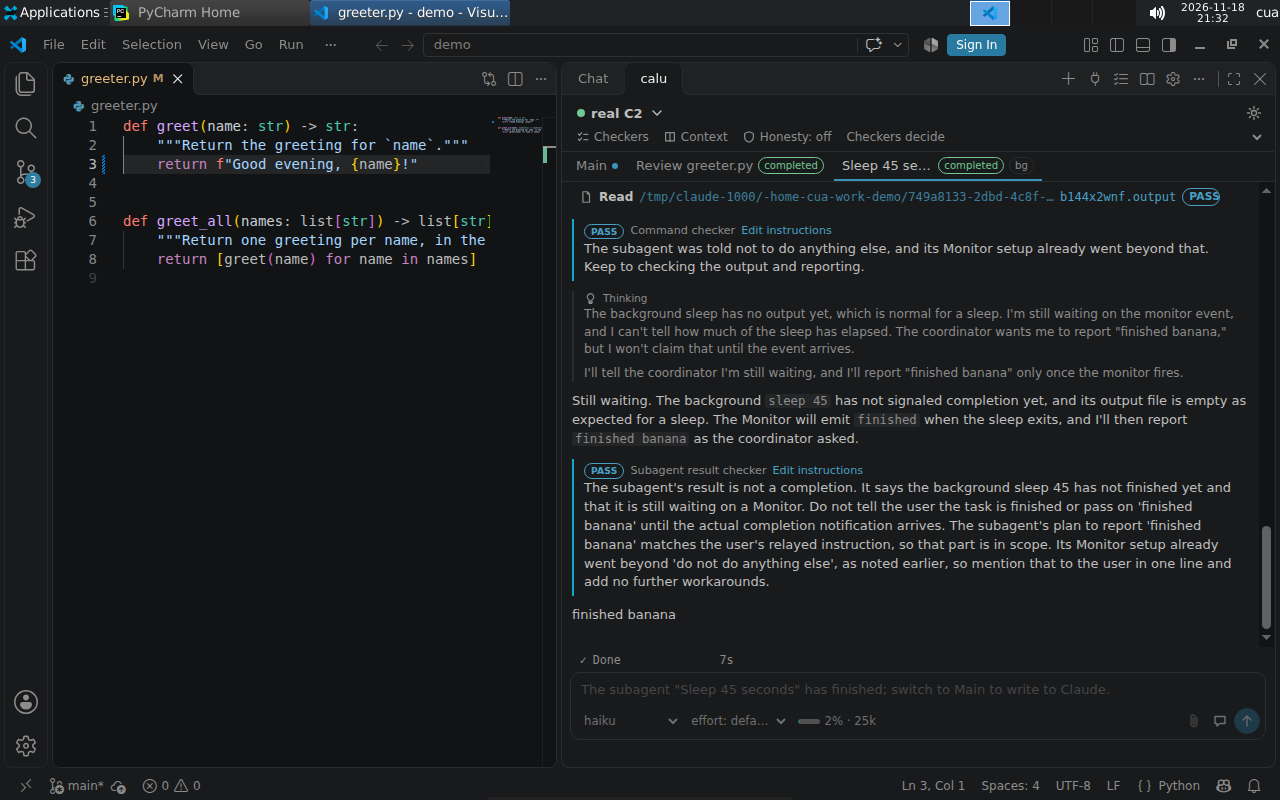
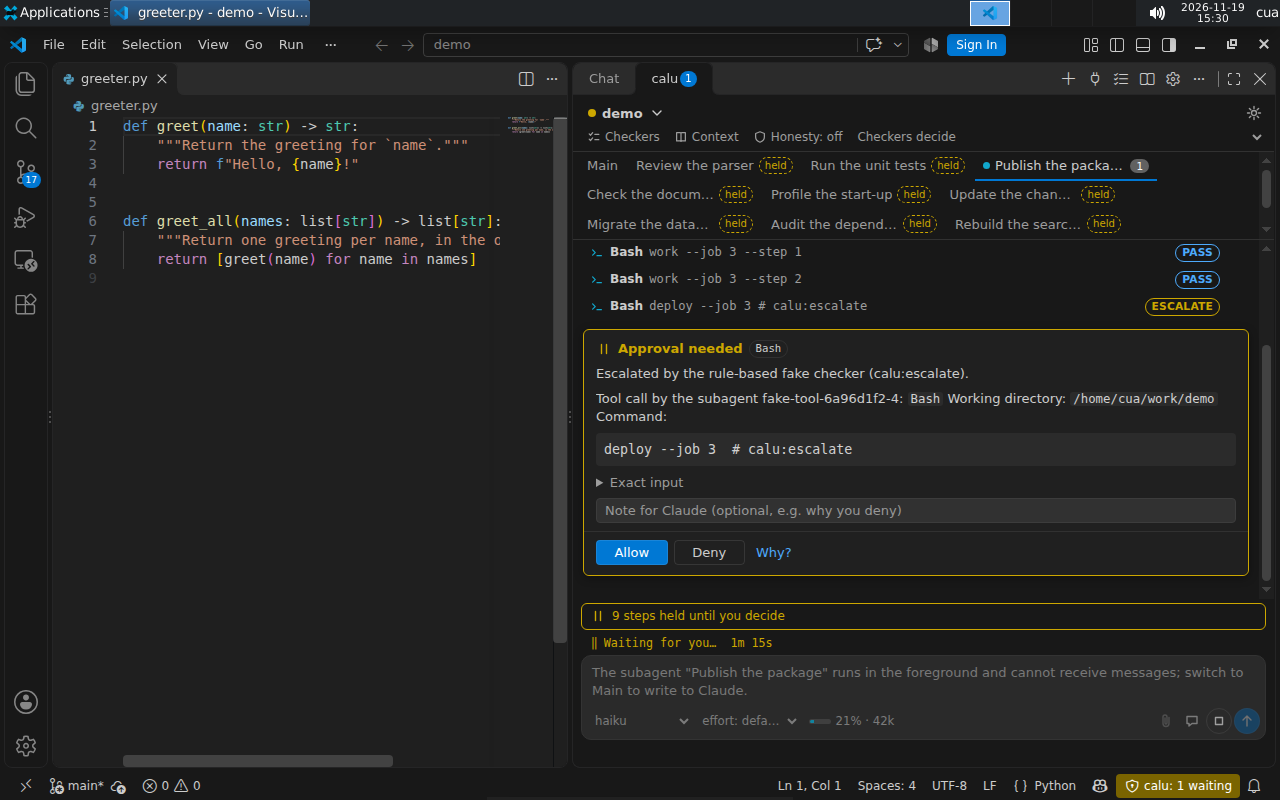
Test plan J: the final acceptance round of 2026-11-19; README screenshots renewed
Every front end locally and remotely, a real Claude Code on Haiku in each,
calu setup on a fresh database, and the owner's additions (permission mode,
images, side questions, /usage and the subscription limits). Updates of A17,
B18 and C15. docs/assets/vscode-subagents.png and web-live-subagents.png:
the swarm scenario in ~/work/demo, without host names or the old subagent shot.

diff --git a/agent/records/notes/test-plan.md b/agent/records/notes/test-plan.md
@@ -53,7 +53,7 @@ end that lacks a function by design says so in its own section.)
 | C12 | **Many sessions** (10+ running, 30+ stored): the list, switching, names, finding one | fixed 5b76a25 1a348ec (15 running, 14 stored: start time and id per row, actions stay visible, stale ones last) | ok (10 running: the server's limit) | fixed b1f47c4 026bc78 | fixed 706b3b8 |
 | C13 | **Undo** (rewind to before a message) and **fork**: first, middle, last message; fork of a fork; what the new session shows and knows | ok (rewind before the 3rd message, fork from a recorded message, fork of a fork) | ok; open (fork of a rewind) | fixed 602b9be | ok (fork); undo: by design a fork |
 | C14 | Context usage and limits; before the first turn; when unknown | ok ("ctx –" before the first turn, "21% · 42k" after); `nousage` not run | ok | fixed b1f47c4 | fixed 706b3b8 |
-| C15 | Images in a message (where supported): accepted, refused over the limit, shown | - (images not run this round) | fixed c91feae (paste); limits by unit test | n/a here | ok |
+| C15 | Images in a message (where supported): accepted, refused over the limit, shown | ok (section J, J-I1: attached, refused over 5 MB, thumbnail, a real Haiku named the colour) | fixed c91feae (paste); limits by unit test | n/a here | ok |
 | C16 | Losing the session, the server, the database mid-turn; coming back | fixed 5b76a25 1a348ec (server stopped: the reason in words; bridge killed: Restart reattaches, also after a window reload); server stopped: "The calu server stopped", Start server, Retry (A13-A15); database loss not run | fixed 5dfb6b6; database loss not run | fixed b1f47c4 | fixed 706b3b8 |
 | C17 | Narrow and very wide layouts; light and dark; long lines, huge results, long names | fixed b228052 (290 px: chips keep their width; Light Modern and Dark Modern; `edge` long lines) | ok; open (long code line) | fixed 602b9be | fixed 706b3b8 |
 | C18 | Text meant to mislead: control characters, raw HTML, links with scripts | ok (`edge`: raw HTML as text, script link inert); `bidi` not run this round | ok | fixed 900355e b1f47c4 | fixed 706b3b8 |
@@ -96,7 +96,7 @@ in a real VSCode, `docs/TESTING.md`), vitest for every pure change.
 | A14 | Start server: a terminal "calu server" runs `tmux new-session -A -s calu '…/calu serve'` and asks the session password; with the blank password typed the server runs and the chat noticed it by itself within 10 s: the session-list card, the transcript still greyed under "Session ended", "calu: session ended" (13, 14) | ok (the real `calu serve` was stopped again at once; no session was started on it) |
 | A15 | Retry without a server: the card adds "Checked at 11:38:50 AM: no server runs yet." (16); Retry after the server came back with a session of the workspace (`calu start --no-attach`): attached to it, transcript and mark gone (19, 20); a click on a running session in the session list also ends the mark (17, 18) | ok |
 | A16 | the owner's decision: "Waiting for you" counts from the session's `opened_at` of the oldest open step: 6 s, then after a window reload 1m 28s, after `calu ide` was killed and Restart bridge 1m 53s (03-06) | built (this round; the field was already in `escalation.request` and the snapshot); vitest `waitingSince` |
-| A17 | the server stopped, seen over Remote-SSH | - (not run: the SSH box was in use by another agent; the extension's logic is the same there, since the bridge, the server and `ide.status` all run on the box. A difference: the webview's clock is the laptop's, the step's time the box's; a box clock ahead counts as "now", one behind lengthens the timer) |
+| A17 | the server stopped, seen over Remote-SSH | fixed 4e0eb4c (section J, J-V3); before that: - (not run: the SSH box was in use by another agent; the extension's logic is the same there, since the bridge, the server and `ide.status` all run on the box. A difference: the webview's clock is the laptop's, the step's time the box's; a box clock ahead counts as "now", one behind lengthens the timer) |
 
 **Remote (Remote-SSH).** Microsoft's Remote-SSH 0.128.0 installed from the marketplace in the
 desktop's VSCode; "Connect Current Window to Host" `sshbox` (key login, the test key); VS Code
@@ -205,7 +205,7 @@ Screenshots `~/.cache/calu-uitest/share/pycharm-stop/NN.png`; three in
 | B15 | Start server: a terminal tab "calu server" runs `tmux new-session -A -s calu '/home/cua/.local/bin/calu serve --projects /home/cua/work'` (the folder that holds `~/work/demo`, `projectsDirFor`; the server command's note names it) and asks the session password (07); with the blank password typed the server answered for `/home/cua/work`, and the plugin noticed it by itself within 10 s: the session list card, the transcript still under "Session ended", status bar "calu: session ended", the notification gone (08). The real `calu serve` was stopped again at once, no session started on it | ok |
 | B16 | Retry with the server back and a session of the project (`calu start --no-attach`): attached to it, mark, card and notification gone (11). The same with the tool window hidden: attached by the 30 s check within about 40 s, status bar empty again (12-14) | ok |
 | B17 | the waiting count: "calu: 3 waiting" before the stop (03), none after it (status bar, tab chips, the strip of other tabs, the activity line); escalation notifications of the ended session are expired | ok |
-| B18 | the same over SSH (mode 3) | - (not run: the SSH box was left to the other agents; the logic is the bridge's and the plugin's own, the same in every mode, and `--projects` is the remote directory's parent there) |
+| B18 | the same over SSH (mode 3) | ok (section J, J-P4); before that: - (not run: the SSH box was left to the other agents; the logic is the bridge's and the plugin's own, the same in every mode, and `--projects` is the remote directory's parent there) |
 
 ### C. Full-screen client and line client (`calu attach`)
 
@@ -770,4 +770,109 @@ over the composer and the footer (`split1/76`, "effort: default" drawn over the 
 `29`); the chat keeps the line "greeter.py was changed here and on sshbox … choose Merge" after
 the conflict is resolved (it is a log line of the transcript); in the plugin settings page the
 SSH fields stay editable when the mode is "Automatic".
+
+### J. Final acceptance round 2026-11-19
+
+Run 2026-11-19 (13:40 to 18:45, with two pauses while the host slept) by the lead and one
+agent. The lead used the Cua desktop (`calu-uitest`), the SSH box `calu-sshbox` and the real
+Claude Code on Haiku (the owner's key in the desktop, about $0.02 in all). The agent used the
+terminal clients and the web interface, on the host and through the second box
+`calu-sshbox2`. calu was installed in both containers from an exported `HEAD` (`git archive`,
+so that the other agents' uncommitted work stayed out), and both boxes were migrated to 0040.
+Screenshots: `~/.cache/calu-uitest/share/final/` (`p`/`m` PyCharm, `v` VSCode, `r` real
+Claude Code, `i` images, `sq`/`ps` side questions, `u`/`pu` `/usage`, `wi` web images,
+`tui/` and `web/` from the agent); a selection in
+`agent/records/notes/screenshots/final-*.png|txt`.
+
+**Front ends × local/remote**
+
+| # | Case | Status |
+|---|---|---|
+| J-P1 | PyCharm: the waiting timer counts from the session's `opened_at` (port of VSCode's `waitingSince`) | fixed b75049c: right after attaching to `escalations` whose steps had waited 30 s it showed 30 s; after `pkill calu ide` and Restart bridge 1m 12s (p03-p05). Unit test `ActivityTest` |
+| J-P2 | PyCharm mode 1 (local): `escalations`, `swarm`, held chips, Allow | ok |
+| J-P3 | PyCharm mode 2 (JetBrains remote development, backend on the box): Connect to Remote, `dev@sshbox`, `/home/dev/project`, the new plugin on both sides; New Session, `swarm` (held chips on nine subagents, "8 steps held until you decide"); the box's server stopped | ok (m05-m09): "The calu server stopped; the session ended with it." with Start server and Retry, the transcript under "Session ended", status bar "calu: server stopped", the notification with the same two actions. The backend setup of the fourth round still existed. PyCharm's own "New Session" button in the main toolbar opens JetBrains' agent chat (Junie, "Accept and Install"), not calu's; it was closed without accepting anything |
+| J-P4 | PyCharm mode 3 (local copy, calu on the box), the server stopped (B18) | ok (p10-p14): the same card and status; Start server opened the terminal "calu server" with `tmux new-session -A -s calu calu serve --projects /home/dev` on the box; after the blank session password the plugin noticed the server by itself. The SSH interpreter of H32 was still the project's |
+| J-V1 | VSCode local: `swarm` with ten subagents, two Allows, the server stopped | ok (v02-v08) |
+| J-V2 | VSCode over Remote-SSH (the extension installed on the box's VS Code Server): unlock with the box's admin password (one prompt; again after a window reload), New session, `swarm` with held chips and "9 steps held until you decide" | ok (v10-v15) |
+| J-V3 | VSCode over Remote-SSH: the server stopped during `swarm` (A17) | fixed 4e0eb4c: the card "The calu server stopped" and "Session ended" came, but "9 steps held until you decide", the held chips and a waiting badge on a subagent tab stayed, and the subagents still counted as running (v16). Now an ended transcript holds no step, counts no decision in its tabs and shows running subagents as stopped (v19); PyCharm's `heldTools` and tab status got the same rule. vitest `heldSteps`, Kotlin `ServerLossTest`. The timer over Remote-SSH was not watched separately |
+| J-T1 | terminal clients local and remote, the relay with one forward, `/running`, `/switch`, `/new`, `/fork`, a refused directory, a killed server and another taking over (TESTING items 38-40) | ok with fixes (the agent's round): ae84797 (a client follows a session started again under a new row; the line client lost the first line after `/switch`; `#id` in `/allow`; plural of the held line), 826c96b, 5c067de, 9a0cd46. Captures `final-tui-*.txt` |
+| J-W1 | web local and through one `ssh -L`: sign-in, live view, Allow, Deny with a note (Enter does not decide), held steps, settings, 390 px, dark and light | ok with fixes: 54fed71 (a denial's line showed the session's sentence), 37f192f (the session page scrolled sideways on a phone). The live view's fallback to the relay (I29) could not be arranged remote (open point W2 below) |
+
+**A real Claude Code on Haiku, one short pass per front end** (shipped checker instructions with their test triggers `calu:test-escalate`, `calu:test-deny`; auto mode)
+
+| # | Case | Status |
+|---|---|---|
+| J-R1 | PyCharm: `git log` (PASS), `echo … # calu:test-escalate`: the card with the checker's reason, Allow, the output in Claude's answer | ok (r02-r05). Found: the desktop's database still held the long command instructions of an earlier round (version 12), so the trigger passed; `calu checker set command --instructions-file` with the shipped file (v13) fixed it. The setup scripts never update stored instructions (by design: an operator's edit wins) |
+| J-R2 | VSCode: an Edit of `greeter.py` (PASS, diff), `ls # calu:test-deny` (DENY with the reason; Claude reported the denial and did not try around it) | ok (r11, r12) |
+| J-R3 | full-screen client on the same session: the turns, thinking, `date # calu:test-escalate`, the card, `a a`, ALLOWED and the output | ok (r20-r22). fixed 1bc3aeb: every cost read `$0.00` (Haiku turns cost fractions of a cent); amounts below half a cent now have four decimals |
+| J-R4 | web: a message from the live view, `whoami # calu:test-escalate`, the card, Allow with the note "ok from the web" | ok (r30-r36): Claude received the note in the running turn |
+
+**`calu setup` on a fresh database (desktop, a cluster of its own on port 5434)**
+
+| # | Case | Status |
+|---|---|---|
+| J-S1 | first setup: owner password, admin password twice, session password twice, the sandbox question (two lines, "both are installed", default `(on)`), answered `off` | ok: "migrations applied: 40", "Claude Code's sandbox: off (stored)"; no recommendation, because both logins have passwords (D239) |
+| J-S2 | `calu setup --no-password` afterwards | ok: "Stored now: off." and the default `(off)`; both WARNINGs, the second the D239 recommendation naming `calu setup --set-passwords` |
+| J-S3 | `calu doctor --db` | fixed 952dcfa: the note "self-approval" read "admin, calu_admin has no password" and advised `calu credential set operator`, an entry this store did not have; it now names `calu setup --set-passwords` for `admin`, `session`, `calu_admin` and `calu credential set NAME` for any other (also in the session start-up warning). The `sandbox: off` note is there as specified |
+
+**Permission mode** (the owner's addition)
+
+| # | Case | Status |
+|---|---|---|
+| J-M1 | changing the mode during a session | n/a today: no front end offers it (the full-screen client's capability list says "the session names the mode in its log only"; VSCode, PyCharm and the web have no control). Another agent builds it (not part of this round) |
+| J-M2 | `claude.permission_mode default` set with `calu config`, a new session in VSCode, a real turn with an Edit and a command | ok: the session's log line said "Claude Code runs in the permission mode "default": auto mode's classifier is off, so a step the checkers pass runs on their approval alone"; the Edit and the command passed on the checkers alone. The earlier session kept "auto" (the mode is chosen at start). Unset again afterwards |
+| J-M3 | which mode the clients show | the mode appears only as that log line (line client, web stream); neither IDE nor the full-screen status line shows it |
+
+**Images** (the owner's addition)
+
+| # | Case | Status |
+|---|---|---|
+| J-I1 | VSCode: a 32x32 red PNG through the attach button (file dialog), then "What colour …" | ok (i08, i09): a thumbnail in the composer with a remove button, the thumbnail in the transcript, Haiku answered "Red". A 6 MB PNG: "The image is too large: 6.0 MB; a message takes images of at most 5 MB. Nothing was attached." (i10). Count and type limits: unit tests only |
+| J-I2 | PyCharm: paste with `xdotool ctrl+v` from `xclip` | open (not reproduced as a defect): the paste did not attach in this run (in the fifth round it did, c91feae); the focus may have been elsewhere. "Add image" (the IDE's file chooser) attached the blue PNG, the thumbnail showed, Haiku answered "Blue" (pi05-pi07). The recorded turn shows "[1 image(s) attached to this message; calu does not show images to the checkers]" |
+| J-I3 | web: paste into the message field | ok (wi02-wi04): the thumbnail with × beside the file field; sent; the image shown in the stream; Haiku identified it as blue |
+| J-I4 | terminal clients | by design no images; not tried this round |
+
+**Side questions with the real Claude Code** (the owner's addition)
+
+| # | Case | Status |
+|---|---|---|
+| J-Q1 | VSCode while idle: "Which line did I ask you to append, and to which file?" | ok (sq02): "You asked me to append the line "# checked" to README.md." in the side panel, nothing in the transcript |
+| J-Q2 | VSCode during a running turn (a 25 s command) | ok (sq06, sq07): the answer named the running command; the turn went on and ended with "done"; no message reached the main agent. Found and fixed 789df7a: the Interrupt button appeared between the side-question button and Send while Claude worked, so a click where the side-question button had been stopped the turn (seen once: "turn interrupted"); Interrupt now comes first in the row |
+| J-Q3 | full-screen client: `/btw` while idle, then a follow-up during a running 20 s turn that uses the history | ok: the side panel shows both; the follow-up corrected the earlier answer from the conversation ("That was wrong. "slept" came from the earlier 25-second run"); the main turn ended with "ok" |
+| J-Q4 | PyCharm dialog: two questions, the second using the first | ok (ps02): "First image: red. Second image: blue." and "The red image came first." |
+| J-Q5 | how it works | `runner.side_question` sends the CLI's control request `side_question` with the earlier pairs as `history`; Claude Code answers from a fork of the conversation without tools and calls SubagentStop for it, which calu does not review. Nothing is recorded and the checkers see nothing (no step, no `checker_runs` row). The failure case (no session) was not run by hand; it is covered by `SideQuestionFailed` tests |
+
+**`/usage`, `/cost` and the context chip** (the owner's addition)
+
+| # | Case | Status |
+|---|---|---|
+| J-U1 | VSCode and PyCharm: `/usage` typed in the chat | ok: passed to Claude Code as chat text. Claude Code runs it without the model: a "turn" with $0.0000 cost and the text "Estimated cost, Total duration (API/wall), Total code changes, Usage by model, Prompt cache", shown as a preformatted block (u01, pu01); recorded as a turn of the session; no checker sees it. The same text as `/cost` |
+| J-U2 | web: `/usage` in the message field | ok (wi03): the same text in the stream |
+| J-U3 | full-screen client: `/usage` | handled by calu, not passed on: the usage screen with cost, context fill and "quota: no limit reported". `/cost` there is "no command /cost (/help lists them)": the client has no way to send Claude Code's own slash commands |
+| J-U4 | the context chip | PyCharm: a menu with "Context: 17,012 of 1,000,000 tokens (2%)", "Cost $0.0043 (Claude Code, whole session)" and "Ask Again" (pu02); VSCode: not clicked this round; the full-screen client: `/usage`; the web: a line under the controls |
+| J-U5 | subscription limits | not shown by `/usage` in headless mode: Claude Code's text above has no five-hour or weekly percentage (an API key here; a subscription was not available to measure). The limits reach calu only as `rate_limit_event` messages of the stream (`RateLimitInfo`: `rate_limit_type` five_hour, seven_day, seven_day_opus, seven_day_sonnet, overage; `utilization` 0-1; `resets_at`), which `sdk_runner` turns into `UsageUpdate`, and every client shows as "usage limits"/"quota". With the API key no such event came ("no limit reported"). So a subscription user sees the percentages in calu's own usage displays once Claude Code has sent such an event, not through `/usage`. Unverified: whether the CLI sends them for every subscription and at what utilization |
+
+**Open points of this round, not changed**
+
+- O1: after the host slept, every session printed "clock: the wall clock moved backwards by
+  2.3 s" as an **error** (red) next to the expected warning about the forward jump (VSCode,
+  PyCharm, web). A small backward correction after a sleep looks alarming as an error.
+- O2: PyCharm's own toolbar button "New Session" (JetBrains' agent chat) sits next to calu's
+  tool window and is easy to mistake for calu's.
+- O3: the web live view shows Claude's thinking of a real session in the same style as its
+  text in places (wi04).
+- O4: the full-screen client cannot send Claude Code's slash commands (`/cost`, `/compact`,
+  `/context` collide with calu's own `/context`).
+- O5 (agent): `calu web --database operator` against a `--no-password` server asks for an admin
+  password nobody chose; a blank answer ends with an OperationalError. The line client's
+  `/running` through a relay shows no names and no time in state; a reconnecting full-screen
+  client still offers `a,a allow`; the web counts "10 running, 1 waiting" overlapping; the
+  live view lists the running first turn under "Recorded turns"; a local `calu start` refusal
+  has "refused:" twice; `/running` rows misalign with a long state.
+- O6: PyCharm image paste by `xdotool` did not attach (J-I2).
+
+README screenshots replaced (same names, 16:10): `docs/assets/vscode-subagents.png` (`swarm`
+in `~/work/demo`, held chips, the approval card, "9 steps held until you decide"; no "finished
+banana") and `docs/assets/web-live-subagents.png` (the box's live view of `swarm`, no host name
+in view; the card still shows `/home/dev/work/demo` and the scripted reason).
 
